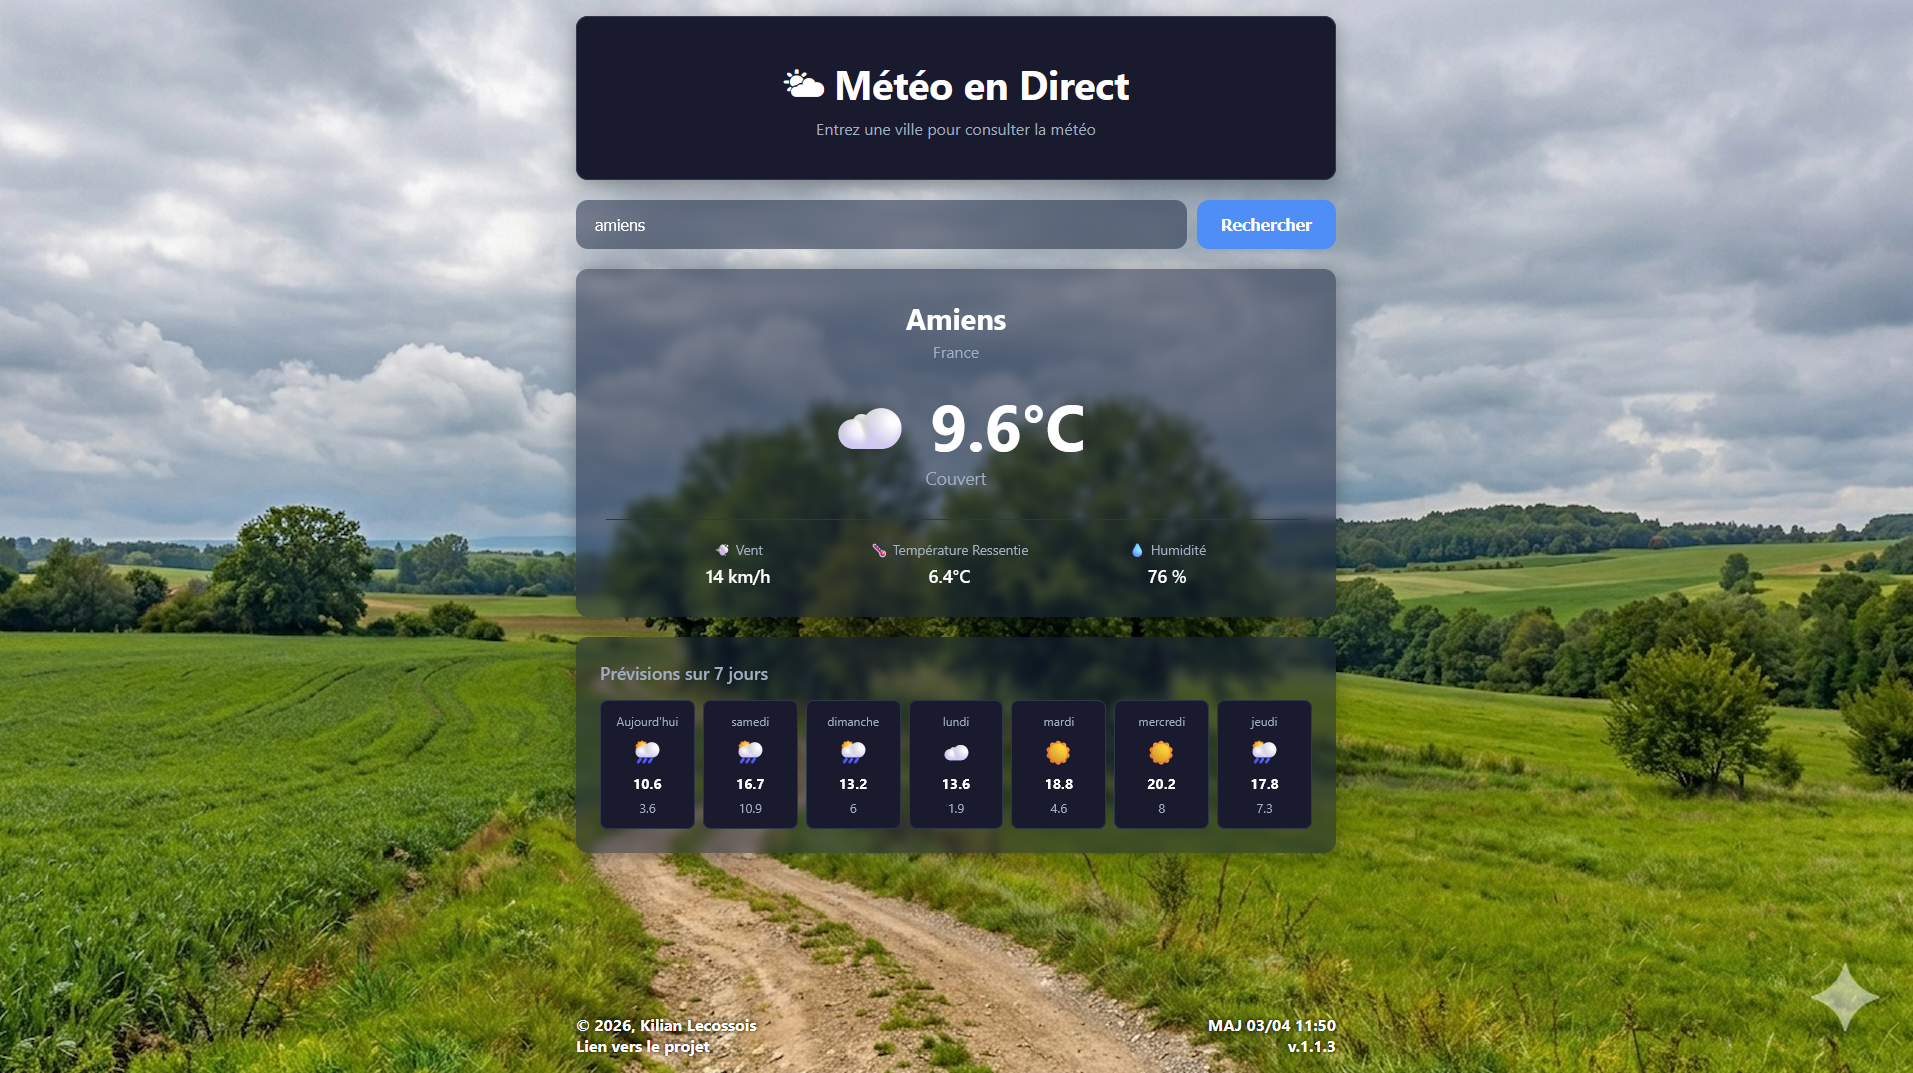
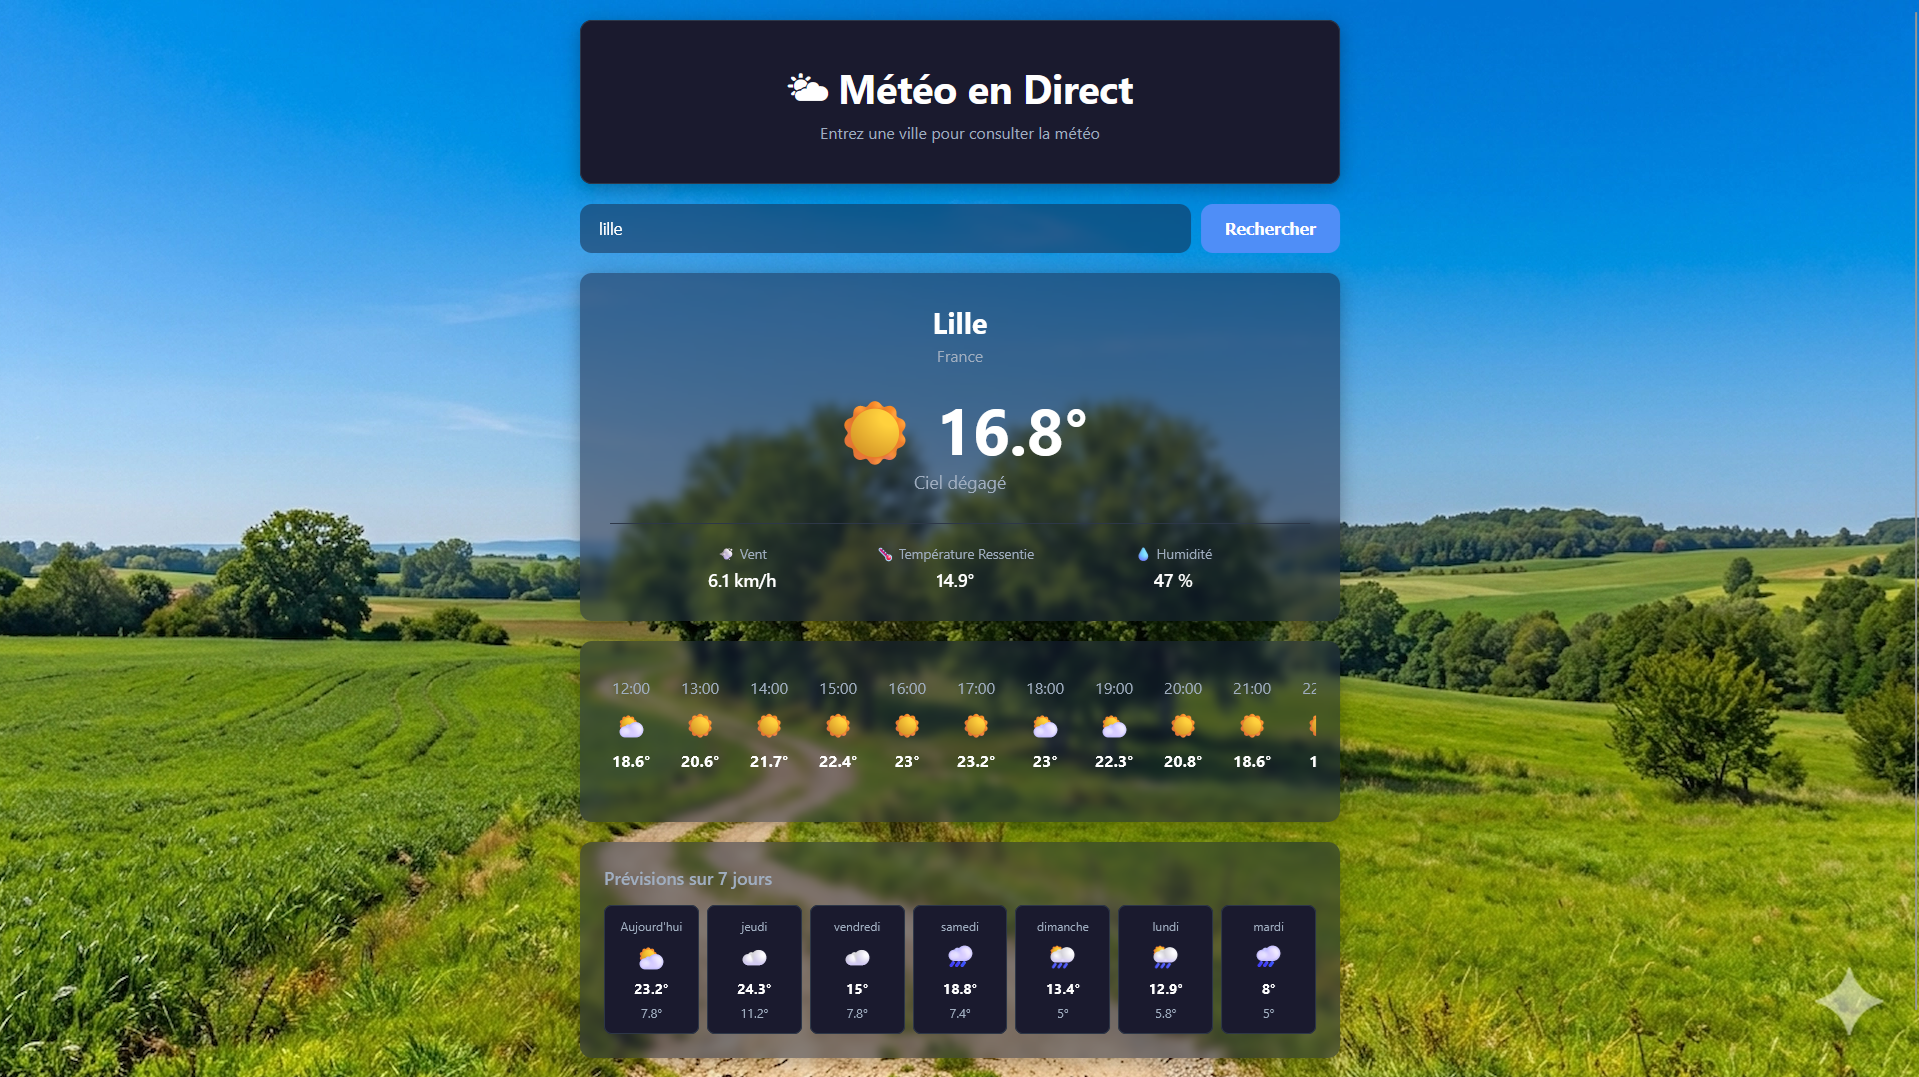
Version 1.3.2
feat(ui): modification affichage des températures

docs: mise à jour de README.md

diff --git a/src/components/WeatherCard.jsx b/src/components/WeatherCard.jsx
@@ -37,7 +37,7 @@ function WeatherCard({meteo, localisation, isLoading, erreur}) {
 
             <div className={styles.main}>
                 <span className={styles.emoji}>{emoji}</span>
-                <span className={styles.temperature}>{meteo.temperature_2m}°C</span>
+                <span className={styles.temperature}>{meteo.temperature_2m}°</span>
             </div>
 
             <p className={styles.description}>{description}</p>
@@ -49,7 +49,7 @@ function WeatherCard({meteo, localisation, isLoading, erreur}) {
                 </div>
                 <div className={styles.detail}>
                     <span className={styles.detailLabel}>🌡 Température Ressentie</span>
-                    <span className={styles.detailValue}>{meteo.apparent_temperature}°C</span>
+                    <span className={styles.detailValue}>{meteo.apparent_temperature}°</span>
                 </div>
                 <div className={styles.detail}>
                     <span className={styles.detailLabel}>💧 Humidité</span>

diff --git a/src/components/Forecast.jsx b/src/components/Forecast.jsx
@@ -22,9 +22,9 @@ function Forecast({forecast}) {
                         }
                         <span>{getWeatherInfo(forecast.weathercode[index]).emoji}</span>
                         {/* Affiche la temparature maximale */}
-                        <span>{forecast.temperature_2m_max[index]}</span>
+                        <span>{forecast.temperature_2m_max[index]}°</span>
                         {/* Affiche la temparature minimale */}
-                        <span>{forecast.temperature_2m_min[index]}</span>
+                        <span>{forecast.temperature_2m_min[index]}°</span>
                     </div>
                 ))}
             </div>

diff --git a/src/components/HourlyForecast.module.css b/src/components/HourlyForecast.module.css
@@ -21,11 +21,15 @@
   display: flex;
   flex-direction: column;
   align-items: center;
-  gap: 6px;
+  gap: 10px;
   padding: 12px 8px;
   background: transparent;
   border: none;
   text-align: center;
+}
+
+.hours span:last-child {
+  font-weight: 700;
 }
 
 .hour {

diff --git a/README.md b/README.md
@@ -1,7 +1,7 @@
 # 🌤 Weather Dashboard
 
 Une application web qui permet d'afficher la météo pour la ville voulue.
-L'utilisateur tape le nom de la ville dont il veut connaitre la météo dans la barre de recherche et l'application et l'appli lui affiche la météo actuelle ainsi que les prévisions pour les 7 prochains jours.
+L'utilisateur tape le nom de la ville dont il veut connaitre la météo dans la barre de recherche et l'application et l'appli lui affiche la météo actuelle, les prévisions sur 24h ainsi que les prévisions pour les 7 prochains jours.
 Réalisées en HTML, CSS et JavaScript (React)
 
 ![Aperçu de l'appli](/public/preview.png)
@@ -10,6 +10,7 @@ Réalisées en HTML, CSS et JavaScript (React)
 
 - 🔍 Recherche d'une ville via la barre de recherche (bouton ou touche Entrée)
 - 🌡 Affichage des conditions météo actuelles : température, température ressentie, humidité et vitesse du vent
+- ⌚ Prévisions sur 24h avec météo et températures
 - 📅 Prévisions sur 7 jours avec météo, températures maximale et minimale
 - 🖼 Image de fond dynamique qui s'adapte aux conditions météo actuelles
 - 🕐 Heure de dernière mise à jour des données

diff --git a/CHANGELOG.md b/CHANGELOG.md
@@ -1,5 +1,10 @@
 # CHANGELOG
 
+## [v1.3.2] - 2026-04-08
+### Modifié
+- Modifications affichage des températures sur l'appli
+- Modification de README.md par mise à jour de l'image de préview + ajout des prévisions sur 24h
+
 ## [v1.3.1] - 2026-04-08
 ### Ajouté
 - Ajout du scroll horizontal à la molette de souris sur le bloc des prévisions sur 24h
